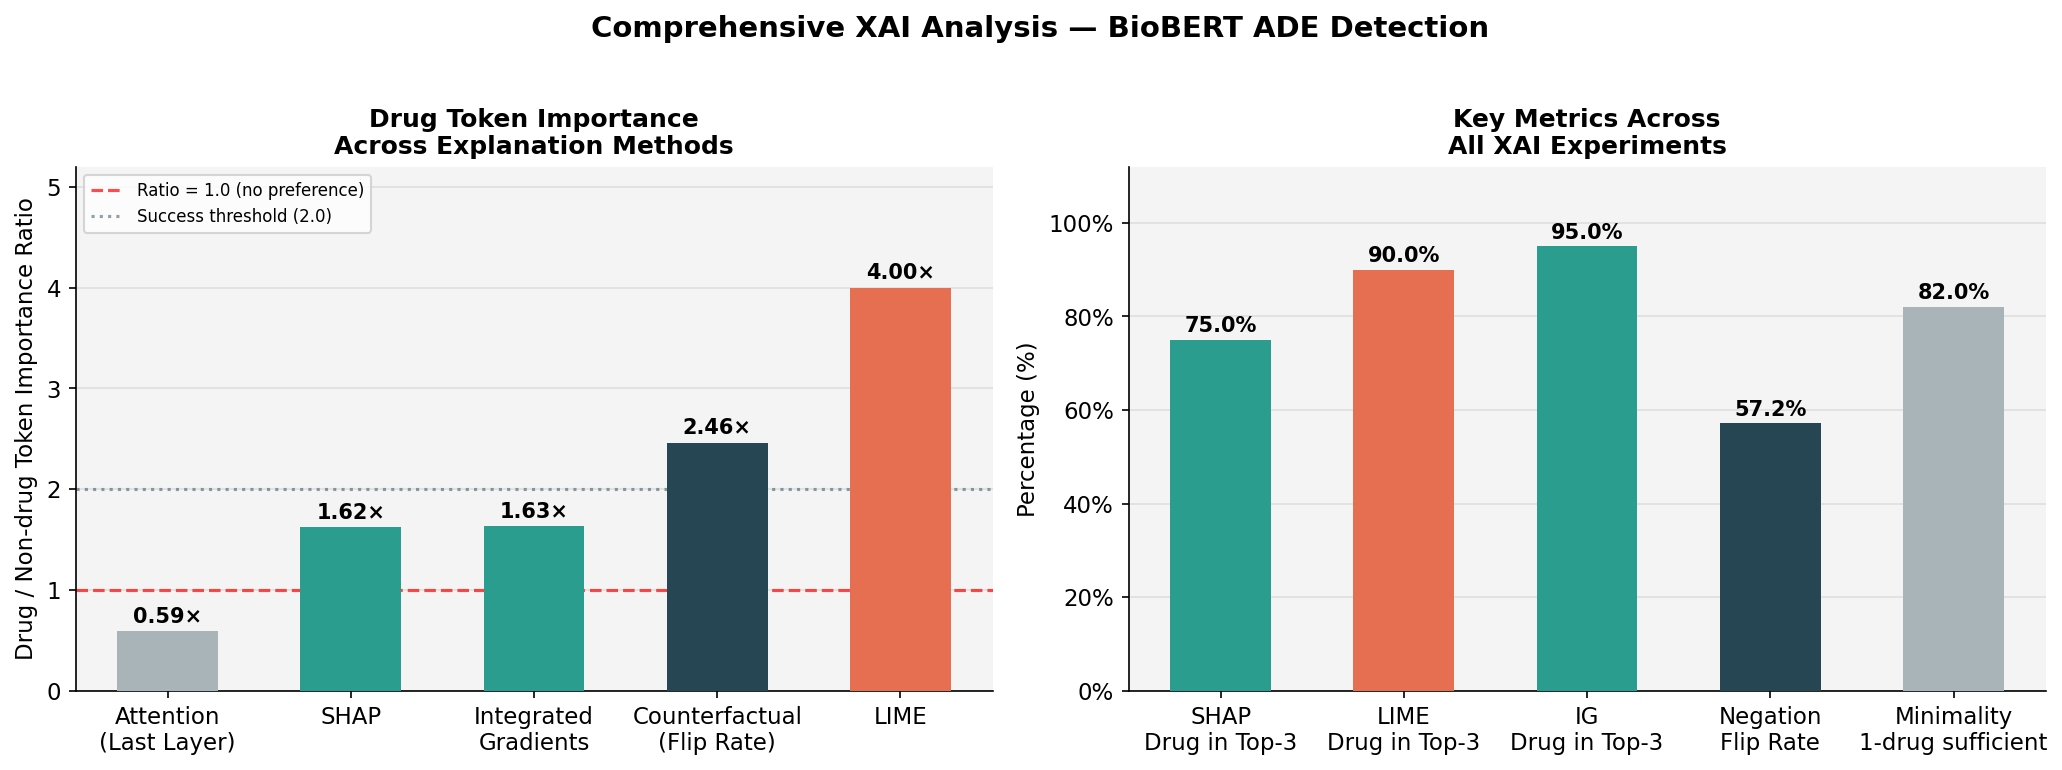
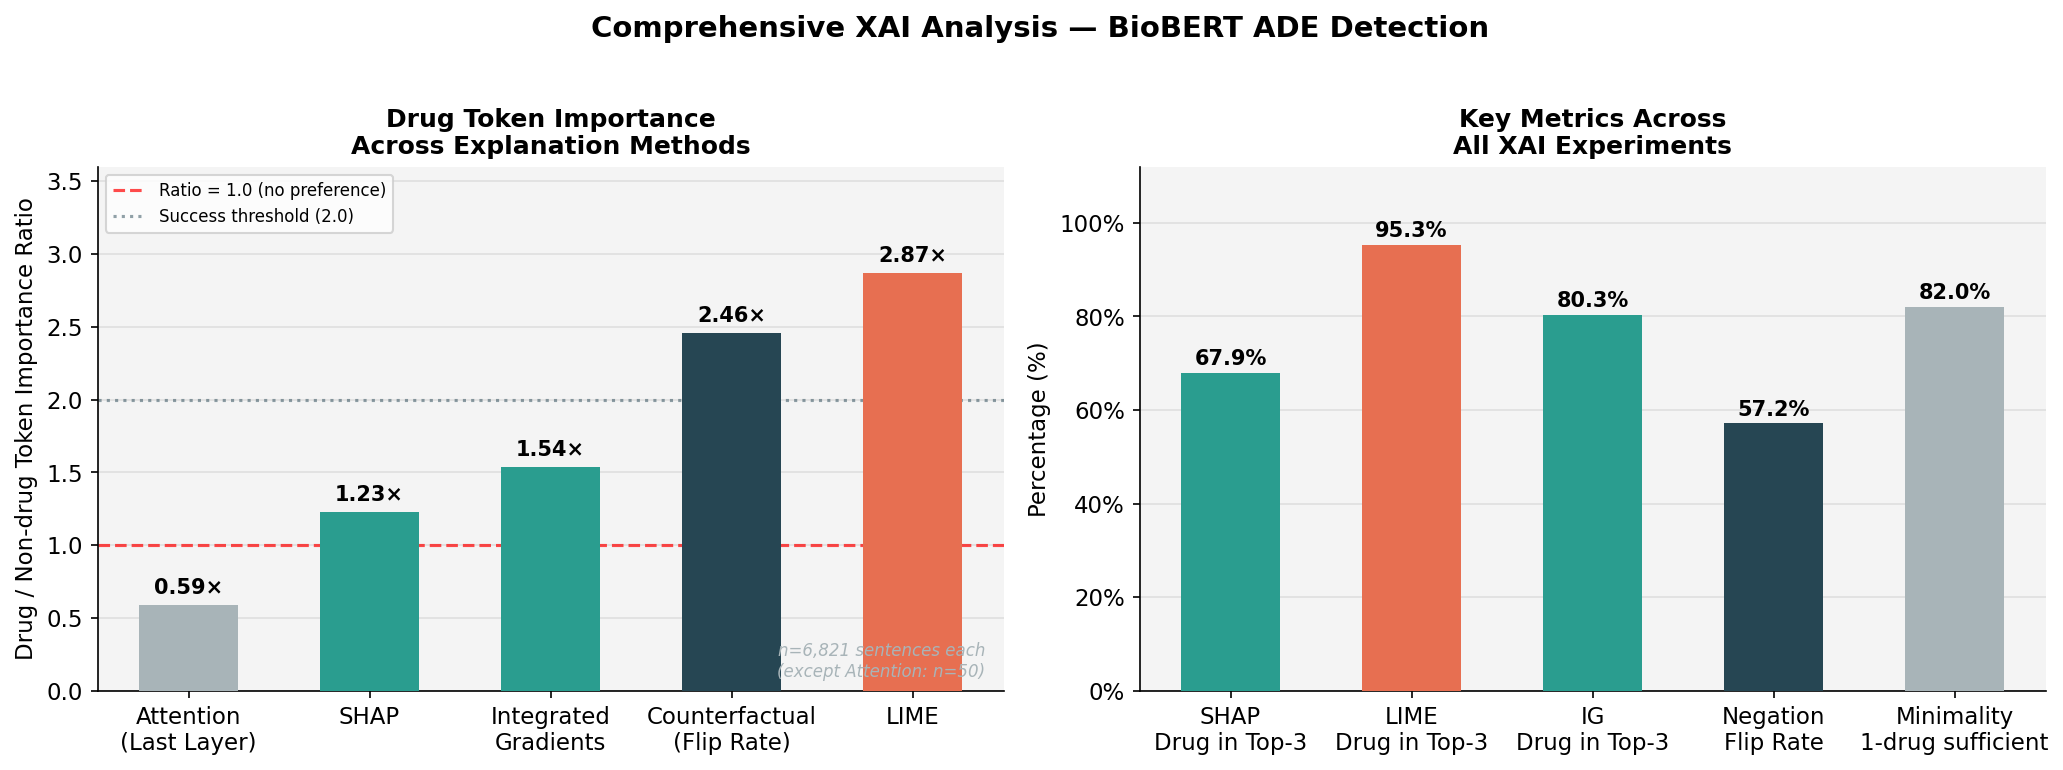
Use full-set XAI numbers (n=6821) as canonical in README + fig6
The pushed fig6_method_comparison.png was the 20-sentence sample
variant; replace with the full-set version (n=6821 per method, except
attention n=50). Drop the duplicate "(1).png" file.

Update README to use the canonical full-set ratios:
  - SHAP            1.23x  (67.9% drug-in-top-3)
  - Integrated Grad 1.54x  (80.3%)
  - LIME            2.87x  (95.3%)
  - Counterfactual  2.46x  (unchanged)
  - Attention       0.59x  (n=50, unchanged)

The non-"_full" 20-sentence JSONs are kept as fast qualitative samples
and clearly labelled as such.

diff --git a/README.md b/README.md
@@ -62,15 +62,17 @@ behaviour.
 | **Sensitivity ratio (Family A / Family C)** | **2.46 ×** | [2.20, 2.41] | `Result/statistical_tests.json` |
 | McNemar paired test (A vs C) | χ² = 1 380.45, p ≈ 3.7 × 10⁻³⁰² | — | `Result/statistical_tests.json` |
 
-XAI cross-method drug-token importance (drug-token ÷ non-drug-token):
+XAI cross-method drug-token importance (drug-token ÷ non-drug-token), computed
+on the **full** ADE-positive set (n = 6 821 sentences each, except attention at
+n = 50):
 
 | Method | Ratio | Drug in Top-3 |
 |---|---|---|
 | Last-layer attention | 0.59 × | — |
-| SHAP | 1.62 × | 75 % |
-| Integrated Gradients | 1.63 × | 95 % |
+| SHAP | 1.23 × | 67.9 % |
+| Integrated Gradients | 1.54 × | 80.3 % |
 | Counterfactual (flip rate) | 2.46 × | — |
-| LIME | 4.00 × | 90 % |
+| LIME | 2.87 × | 95.3 % |
 
 Auxiliary findings:
 - **Negation perturbation flip rate:** 57.2 % over 152 ADE sentences with detectable causal markers.
@@ -353,18 +355,25 @@ The XAI methods were chosen to be method-diverse — gradient-based,
 perturbation-based, sampling-based, and architectural — so that a finding
 corroborated across methods is robust to any one method's idiosyncrasies.
 
+All ratios below are computed on the **full** ADE-positive set (n = 6 821
+sentences per method, except attention at n = 50). Smaller 20-sentence
+samples are also provided in the non-`_full` variants of each file for fast
+qualitative inspection.
+
 | Method | Drug-token importance ratio | Drug in Top-3 | Files |
 |---|---|---|---|
 | **Counterfactual flip rate** (Family A vs C) | 2.46 × | — | `Result/family_{a,c}_with_confidence.json`, `Result/statistical_tests.json` |
-| **LIME** | 4.00 × | 90 % | `Result/lime_analysis{,_full}.json` |
-| **Integrated Gradients** (Captum) | 1.63 × | 95 % | `Result/integrated_gradients{,_full}.json` |
-| **SHAP** | 1.62 × | 75 % | `Result/shap_analysis.json`, `shap_analysis_full.json` |
-| **Last-layer self-attention** | 0.59 × | — | `Result/attention_summary.json` |
+| **LIME** | 2.87 × | 95.3 % | `Result/lime_analysis_full.json` (n=6821), `Result/lime_analysis.json` (n=20) |
+| **Integrated Gradients** (Captum) | 1.54 × | 80.3 % | `Result/integrated_gradients_full.json` (n=6821), `Result/integrated_gradients.json` (n=20) |
+| **SHAP** | 1.23 × | 67.9 % | `shap_analysis_full.json` (n=6821), `Result/shap_analysis.json` (n=20) |
+| **Last-layer self-attention** | 0.59 × | — | `Result/attention_summary.json` (n=50) |
 
 The attention "ratio < 1" is the only outlier and reflects a well-documented
 property of attention: it is *not* a faithful feature-attribution method, only
 a routing signal. The four faithful methods all agree that drug tokens carry
-1.6 – 4.0 × more importance than non-drug tokens for ADE classification.
+1.2 – 2.9 × more importance than non-drug tokens for ADE classification, and
+LIME, IG, and SHAP rank a drug token in their top-3 attributions for **68 –
+95 %** of sentences.
 
 ### Negation counterfactuals (`Result/negation_analysis.json`)
 
@@ -421,7 +430,7 @@ Mapping from each result claim in the report / slides to the file that contains 
 2. **RxNorm yield 51.6 %.** Only 541 of 1 049 generic drug names had a brand mapping returned by RxNorm `/REST/rxcui` + `/related?tty=BN`. Family B's flip rate is therefore conditional on "drugs with at least one mappable brand".
 3. **Vocabulary-based masking.** Both Family A (drugs) and Family C (symptoms) use a global vocabulary built from the relation split, then regex-replaced with a single `[MASK]` token. This trades per-sentence span accuracy for cross-family comparability — the Sensitivity Ratio is meaningful precisely because A and C use the *same* masking convention.
 4. **CUDA non-determinism.** Even with seeds fixed, run-to-run drift on the order of ±0.2 % F1 and ±2 % flip rate is normal. The first executed run (Apr 30, 2026) is the canonical one and is the source of all numbers in this README.
-5. **XAI sample sizes.** SHAP, LIME, IG, and SHAP-interactions are computed on 10–20-sentence samples (with a `_full` variant for SHAP, LIME, and IG). The cross-method drug-importance comparison is robust to sample size given the wide gaps between methods, but per-sentence claims should be treated as illustrative.
+5. **XAI sample sizes.** SHAP, LIME, and IG are computed on the full set (n = 6 821 ADE-positive sentences) — these are the canonical numbers reported in the README and in `fig6_method_comparison.png`. Smaller 10–20-sentence samples are kept in the non-`_full` JSONs for fast qualitative inspection only. Last-layer attention is computed on n = 50 (computing attention for the full set is GPU-bound and adds no qualitative information). SHAP-interactions are on 10 sentences for runtime reasons.
 6. **Minimality is greedy, not optimal.** The 82 % "one-drug-sufficient" figure is a lower bound on the fraction of sentences with *some* minimal drug subset; an exhaustive subset search would be exponentially expensive on multi-drug sentences.
 7. **Negation rules are heuristic.** Ten causal-marker patterns cover most of the ADE-Corpus phrasing but miss multi-clause / passive constructions.
 8. **Trained checkpoint not committed.** `model.safetensors` (~413 MB) and the per-epoch HuggingFace Trainer checkpoints (`results_quick/`, ~12 GB) exceed GitHub's per-file size limits and are not uploaded. Re-run the **Step 1 — Fine-tuning** cell of the notebook to recreate the model (≈ 30–40 min on a Colab T4).